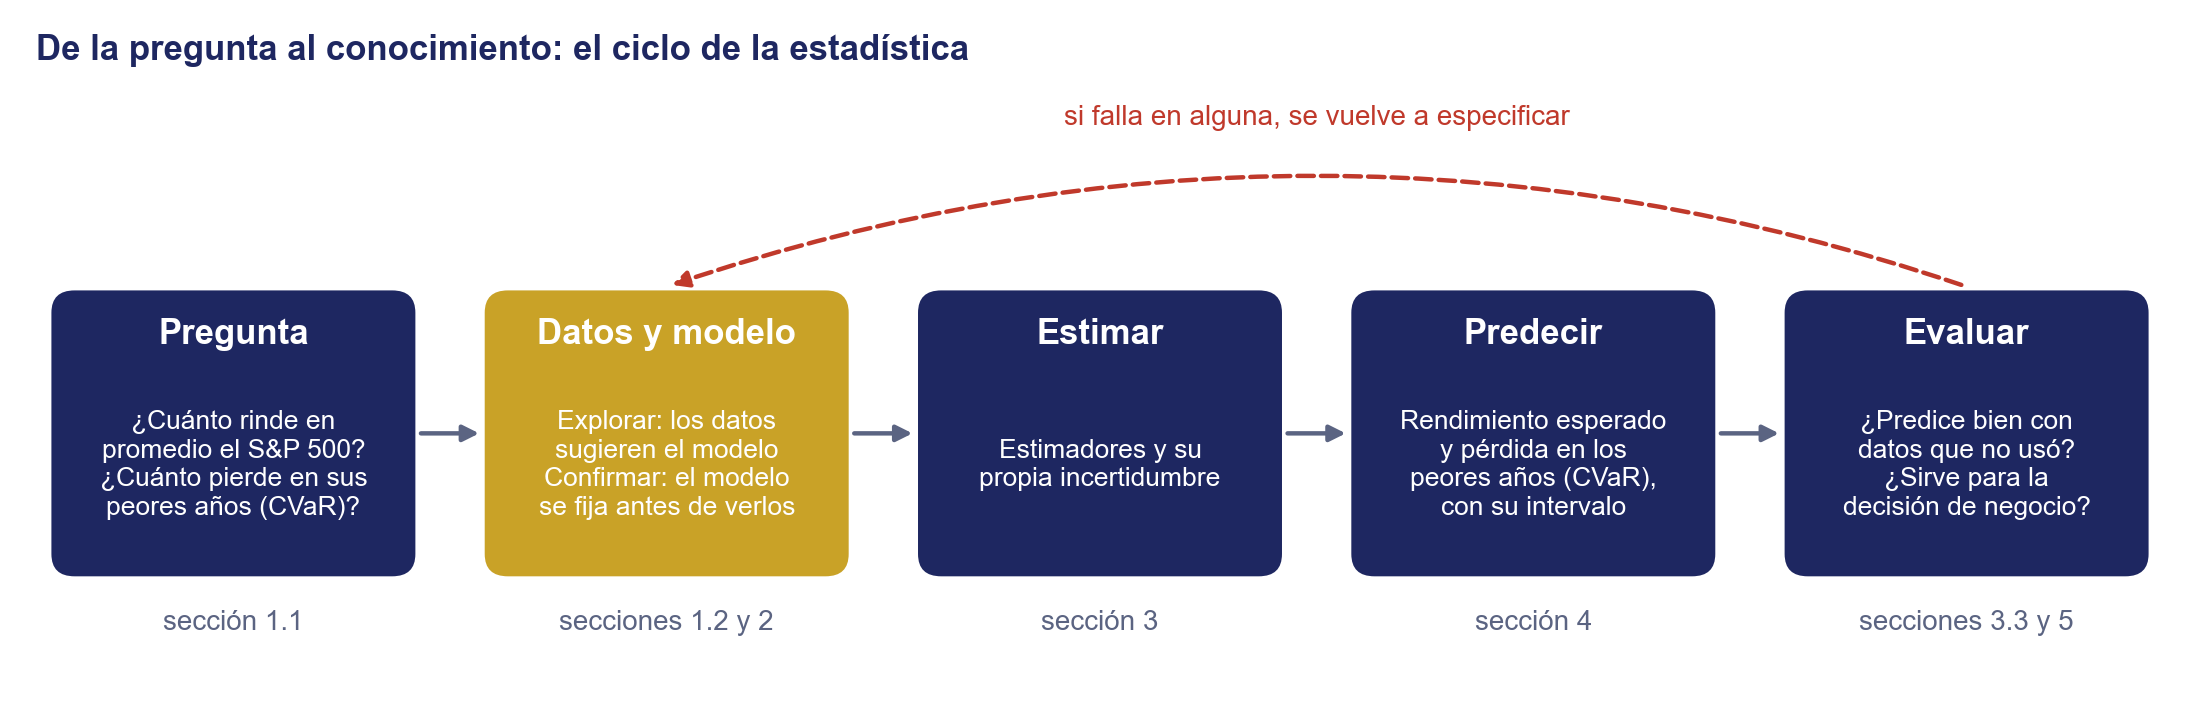
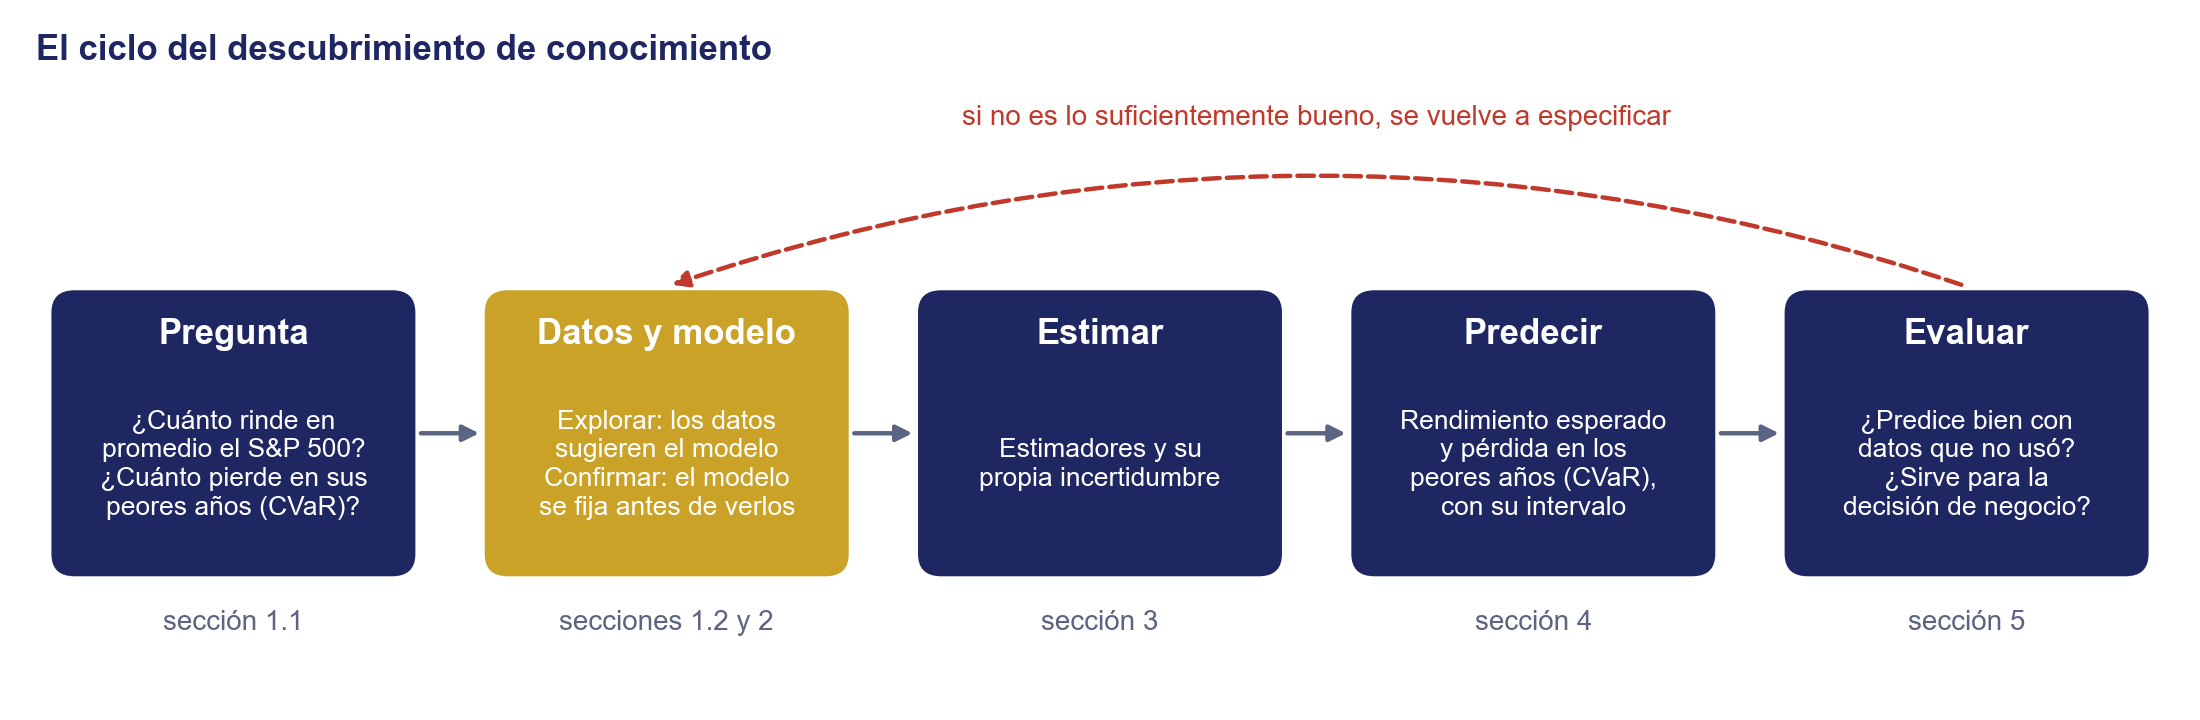
refactor (unidad3): context

diff --git a/notas_unidades/unidad3/img/generar_figuras.py b/notas_unidades/unidad3/img/generar_figuras.py
@@ -891,7 +891,7 @@ def fig_proceso_estadistico():
         ("Predecir", "Rendimiento esperado\ny pérdida en los\npeores años (CVaR),\ncon su intervalo",
          "sección 4"),
         ("Evaluar", "¿Predice bien con\ndatos que no usó?\n¿Sirve para la\ndecisión de negocio?",
-         "secciones 3.3 y 5"),
+         "sección 5"),
     )
     ancho, alto, paso_x, y0 = 1.85, 1.5, 2.25, 0.0
     fig, ax = plt.subplots(figsize=(11, 3.6))
@@ -916,12 +916,12 @@ def fig_proceso_estadistico():
     ax.annotate("", xy=(x_mod, y0 + alto + 0.04), xytext=(x_eval, y0 + alto + 0.04),
                 arrowprops=dict(arrowstyle="-|>", color=RED, lw=1.6, ls="--",
                                 connectionstyle="arc3,rad=0.17"))
-    ax.text((x_eval + x_mod) / 2, y0 + alto + 0.88, "si falla en alguna, se vuelve a especificar",
+    ax.text((x_eval + x_mod) / 2, y0 + alto + 0.88, "si no es lo suficientemente bueno, se vuelve a especificar",
             ha="center", va="bottom", fontsize=10, color=RED)
     ax.set_xlim(-0.1, 4 * paso_x + ancho + 0.1)
     ax.set_ylim(-0.6, alto + 1.2)
     ax.axis("off")
-    ax.set_title("De la pregunta al conocimiento: el ciclo de la estadística", fontsize=12.5,
+    ax.set_title("El ciclo del descubrimiento de conocimiento", fontsize=12.5,
                  color=NAVY, fontweight="bold", loc="left", pad=4)
     fig.tight_layout()
     fig.savefig(OUT_PROCESO, dpi=200, facecolor="white")

diff --git a/notas_unidades/unidad3/2_estadistica_y_datos.md b/notas_unidades/unidad3/2_estadistica_y_datos.md
@@ -23,16 +23,32 @@ Que el estudiante construya un intervalo de confianza para el rendimiento espera
 
 ### 1. Contexto
 
-#### 1.1 De los datos al modelo
+#### 1.1 El Ciclo de Descubrimiento de cono
 
-La probabilidad es deductiva: parte de un modelo que se da por conocido y deduce qué datos deben esperarse y con qué frecuencia. Si el rendimiento diario del S&P 500 fuera normal, con media 0 y la desviación estándar de $1.2\%$ que tienen sus cierres diarios desde 1928, una caída de $1.2\%$ o más debería ocurrir uno de cada seis días, y una caída de más de $5\%$, una vez cada 300 años. Así trabaja el área de riesgos de un banco con un portafolio de acciones de 100 millones de pesos: con el mismo modelo deduce, sin observar un solo precio, el valor en riesgo al 99% a un día (sección 6 de la nota anterior), $2.326 \times 1.2\% \times 100 = 2.79$ millones de pesos, la pérdida que solo se supera uno de cada 100 días, unas dos o tres veces al año. La conclusión se sigue de los supuestos con certeza; qué tan útil es depende de qué tan razonables sean.
+La probabilidad es deductiva: se toma modelo dado y deducen implicaciones.
 
-La estadística es inductiva: recorre el camino inverso. En la práctica nadie le da al banco ese $1.2\%$, ni le asegura que el rendimiento sea normal; tiene precios pasados, y con ellos infiere el modelo que pudo haberlos generado. El problema de esta nota es de ese tipo: cuánto rinde en promedio el S&P 500, a partir de sus 98 rendimientos anuales de 1928 a 2025. Las conclusiones de la estadística nunca son seguras, porque otros datos habrían dado otra estimación; parte de su trabajo es medir qué tan lejos puede estar la estimación del parámetro del modelo.
+> Ejemplo: Si el rendimiento diario del S&P 500 fuera normal, con media 0 y la desviación estándar de $1.2\%$, una caída de $1.2\%$ o más debería ocurrir uno de cada seis días, y una caída de más de $5\%$, una vez cada 300 años. Así trabaja el área de riesgos de un banco con un portafolio de acciones de 100 millones de pesos: con el mismo modelo deduce, sin observar un solo precio, el valor en riesgo al 99% a un día, $2.326 \times 1.2\% \times 100 = 2.79$ millones de pesos, la pérdida que solo se supera uno de cada 100 días, unas dos o tres veces al año. La conclusión se sigue de los supuestos con certeza; qué tan útil es depende de qué tan razonables sean.
 
-Ese trabajo sigue un ciclo, que también ordena esta nota. Se parte de una **pregunta**: cuánto rinde en promedio el S&P 500, que interesa a quien invierte a largo plazo, o cuánto pierde en sus peores años, que interesa a quien debe reservar capital para soportarlos y se mide con el CVaR. Después vienen los **datos** (sección 2) y el **modelo** que pudo haberlos generado (sección 1.2), en un orden que depende del tipo de trabajo. En un trabajo de **exploración**, se describen primero los datos y estos sugieren el modelo, como cuando el histograma de los rendimientos diarios sugiere colas más pesadas que las de la normal. En uno de **confirmación**, el modelo y la hipótesis se fijan antes de ver los datos, que solo sirven para ponerlos a prueba; si los mismos datos sugirieran el modelo y lo confirmaran, la prueba se aprobaría casi siempre. Luego se **estiman** los parámetros, y con ellos su propia incertidumbre, porque otra historia habría dado otra estimación (sección 3). Con lo estimado se **predice** lo que pide la pregunta, el rendimiento esperado y la pérdida en los peores años, cada uno con un intervalo (sección 4). Al final se **evalúa** en dos sentidos. Primero, si el modelo predice bien con datos que no usó para estimarse, por ejemplo contando cuántos días se rebasa un límite de pérdidas (sección 3.3) o comparando sus supuestos con los hechos estilizados (sección 5). Segundo, si la respuesta sirve al problema de negocio: si el capital reservado alcanza para un año malo, o si el rendimiento esperado compensa el riesgo para el inversionista. Si falla en alguno de los dos, se vuelve a especificar. La regresión (sección 6) recorre el mismo ciclo con un modelo de la relación entre dos variables.
+La estadística es inductiva: recorre el camino partiendo de los datos y alimenta la modelacion.
+
+> Ejemplo: En la práctica nadie le da al banco ese $1.2\%$, ni le asegura que el rendimiento sea normal; tiene precios pasados, y con ellos infiere el modelo que pudo haberlos generado. El problema de esta nota es de ese tipo: cuánto rinde en promedio el S&P 500, a partir de sus 98 rendimientos anuales de 1928 a 2025. Las conclusiones de la estadística nunca son seguras, porque otros datos habrían dado otra estimación; parte de su trabajo es medir qué tan lejos puede estar la estimación del parámetro del modelo.
+
+El trabajo del descubrimimento de conocimiento sigue un ciclo iterativo:
+
+1. Se parte de una **pregunta**: cuánto rinde en promedio el S&P 500, que interesa a quien invierte a largo plazo, o cuánto pierde en sus peores años, que interesa a quien debe reservar capital para soportarlos y se mide con el CVaR.
+2. Después vienen los **datos** y el **modelo** que pudo haberlos generado. El orden que depende del tipo de trabajo.
+    - En un trabajo de **exploración**, se describen primero los datos y estos sugieren el modelo, como cuando el histograma de los rendimientos diarios sugiere colas más pesadas que las de la normal. - En uno de **confirmación**, el modelo y la hipótesis se fijan antes de ver los datos, que solo sirven para ponerlos a prueba; si los mismos datos sugirieran el modelo y lo confirmaran, la prueba se aprobaría casi siempre.
+3. Luego se **estiman** los parámetros, y con ellos su propia incertidumbre, porque otra historia habría dado otra estimación.
+4. Con lo estimado se **predice** lo que pide la pregunta, el rendimiento esperado y la pérdida en los peores años, cada uno con un intervalo.
+5. Al final se **evalúa** en dos sentidos. Si no es lo suficientemente bueno, se vuelve a especificar.
+    - Primero, si el modelo predice bien con datos que no usó para estimarse, por ejemplo contando cuántos días se rebasa un límite de pérdidas.
+    - Segundo, si la respuesta sirve al problema de negocio: si el capital reservado alcanza para un año malo, o si el rendimiento esperado compensa el riesgo para el inversionista.
 
 <!-- diapositivas: figura sola -->
-![Diagrama del ciclo de la estadística en cinco cajas unidas por flechas de izquierda a derecha: Pregunta, cuánto rinde en promedio el S&P 500 y cuánto pierde en sus peores años (CVaR) (sección 1.1); Datos y modelo, en dorado, donde al explorar los datos sugieren el modelo y al confirmar el modelo se fija antes de verlos (secciones 1.2 y 2); Estimar, estimadores y su propia incertidumbre (sección 3); Predecir, rendimiento esperado y pérdida en los peores años (CVaR), con su intervalo (sección 4); y Evaluar, si predice bien con datos que no usó y si sirve para la decisión de negocio (secciones 3.3 y 5); una flecha roja punteada regresa de Evaluar a Datos y modelo con la leyenda si falla en alguna, se vuelve a especificar](img/proceso_estadistico.png)
+![Diagrama del ciclo del descubrimiento de conocimiento en cinco cajas unidas por flechas de izquierda a derecha, cada una con la sección de la nota que la cubre: Pregunta, cuánto rinde en promedio el S&P 500 y cuánto pierde en sus peores años (CVaR) (sección 1.1); Datos y modelo, en dorado, donde al explorar los datos sugieren el modelo y al confirmar el modelo se fija antes de verlos (secciones 1.2 y 2); Estimar, estimadores y su propia incertidumbre (sección 3); Predecir, rendimiento esperado y pérdida en los peores años (CVaR), con su intervalo (sección 4); y Evaluar, si predice bien con datos que no usó y si sirve para la decisión de negocio (sección 5); una flecha roja punteada regresa de Evaluar a Datos y modelo con la leyenda si no es lo suficientemente bueno, se vuelve a especificar](img/proceso_estadistico.png)
+
+
+
 
 Los rendimientos rendimientos se model como una **serie de tiempo**, una sucesión de variables aleatorias indexadas por el tiempo,
 
